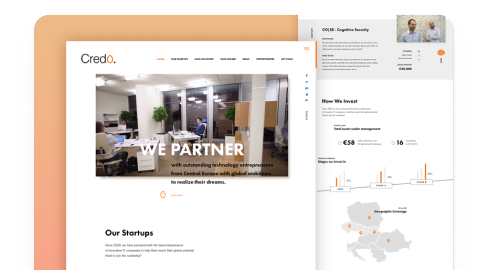
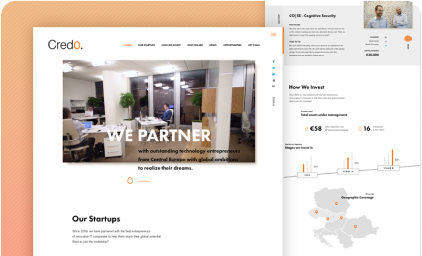
ref container updated

diff --git a/index.html b/index.html
@@ -188,16 +188,22 @@
             </button>
         </div>
         <div id="projects-imgs">
-            <img src="./assests/homeRef/browser-1.png" alt="">
-            <img src="./assests/homeRef/browser-3.png" alt="">
-            <img src="./assests/homeRef/browser-5.png" alt="">
-            <img src="./assests/homeRef/browser-7.png" alt="">
-            <img src="./assests/homeRef/browser-4.png" alt="">
-            <img src="./assests/homeRef/browser-2.png" alt="">
-            <img src="./assests/homeRef/browser-6.png" alt="">
-            <img src="./assests/homeRef/browser-9.png" alt="">
-            <img src="./assests/homeRef/browser-8.png" alt="">
             <img src="./assests/homeRef/browser.png" alt="">
+            <img src="./assests/homeRef/browser-4.png" alt="">
+
+            <img src="./assests/homeRef/browser-8.png" alt="">
+            <img src="./assests/homeRef/browser-7.png" alt="">
+
+            <img src="./assests/homeRef/browser-9.png" alt="">
+            <img src="./assests/homeRef/browser-5.png" alt="">
+
+
+            <img src="./assests/homeRef/browser-6.png" alt="">
+            <img src="./assests/homeRef/browser-3.png" alt="">
+
+            <img src="./assests/homeRef/browser-2.png" alt="">
+            <img src="./assests/homeRef/browser-1.png" alt="">
+
         </div>
     </section>
     <section class="wrapper" id="secondPart">

diff --git a/styles.css b/styles.css
@@ -13,9 +13,11 @@ button {
     cursor: pointer;
     font-size: 0.9rem;
 }
-button:hover{
+
+button:hover {
     box-shadow: 0px 0px 1rem -0.2rem #9F64EF66;
 }
+
 body {
     width: 100%;
     background: url('./assests/background.svg') repeat;
@@ -562,8 +564,9 @@ header button::after {
     align-items: center;
     border-radius: 0.8rem;
 
-}    
-#services-buttons .left-button:hover{
+}
+
+#services-buttons .left-button:hover {
     box-shadow: 0px 0px 1rem -0.2rem #9F64EF66;
 }
 
@@ -664,15 +667,19 @@ header button::after {
 
 
 #projects-imgs {
-    display: flex;
-    align-items: baseline;
-    flex-wrap: wrap;
+    width: 100%;
+    columns: 5;
+    column-gap: 0.8rem;
+    transform: rotate(180deg); /* Flip container */
+    display: inline-block; /* Prevent layout breakage */
 }
 
 #projects-imgs img {
-    width: 20%;
-    height: min-content;
-    cursor: pointer;
+    display: inline-block;
+    width: 100%;
+    margin-bottom: 0.8rem;
+    transform: rotate(180deg); /* Flip images back */
+    vertical-align: bottom; /* Remove white space under images */
 }
 
 #projects-imgs img:hover {

diff --git a/.scroller {.css b/.scroller {.css
@@ -1,0 +1,51 @@
+.scroller {
+    margin-top: 3rem;
+    max-width: 100%;
+}
+
+.scroller ul {
+    list-style: none;
+    display: flex;
+    align-items: center;
+    gap: 4rem;
+}
+
+
+.scroller__inner {
+    padding-block: 1rem;
+    display: flex;
+    flex-wrap: wrap;
+    gap: 1rem;
+}
+
+.scroller[data-animated="true"] {
+    overflow: hidden;
+    -webkit-mask: linear-gradient(90deg,
+            transparent,
+            white 20%,
+            white 80%,
+            transparent);
+    mask: linear-gradient(90deg, transparent, white 20%, white 80%, transparent);
+}
+
+.scroller[data-animated="true"] .scroller__inner {
+    width: max-content;
+    flex-wrap: nowrap;
+    animation: scroll var(--_animation-duration, 40s) var(--_animation-direction, forwards) linear infinite;
+}
+
+.scroller[data-direction="right"] {
+    --_animation-direction: reverse;
+}
+
+.scroller[data-direction="left"] {
+    --_animation-direction: forwards;
+}
+
+.scroller[data-speed="fast"] {
+    --_animation-duration: 20s;
+}
+
+.scroller[data-speed="slow"] {
+    --_animation-duration: 60s;
+}
